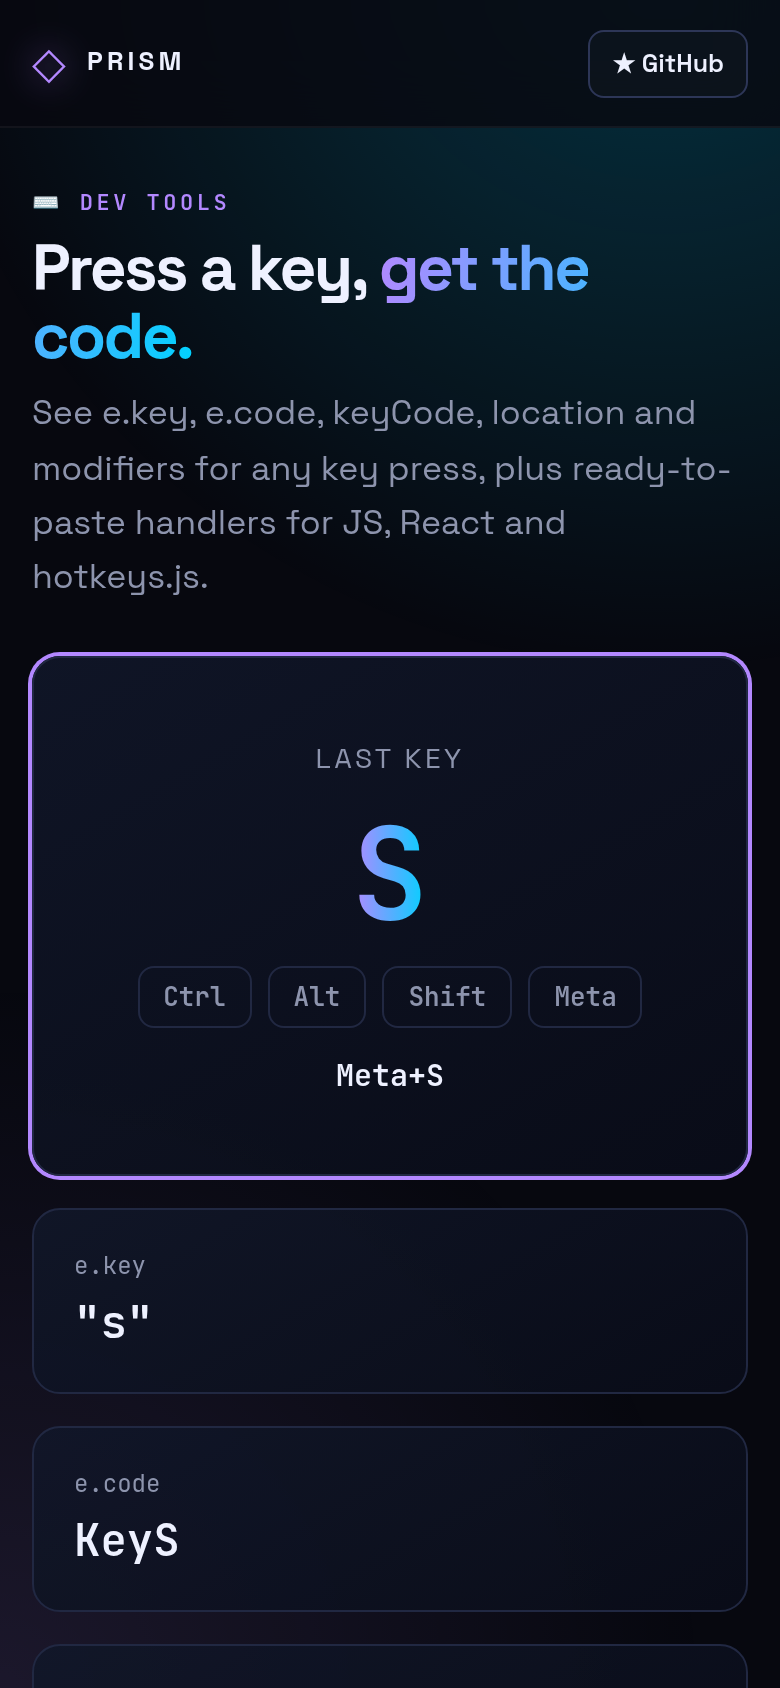
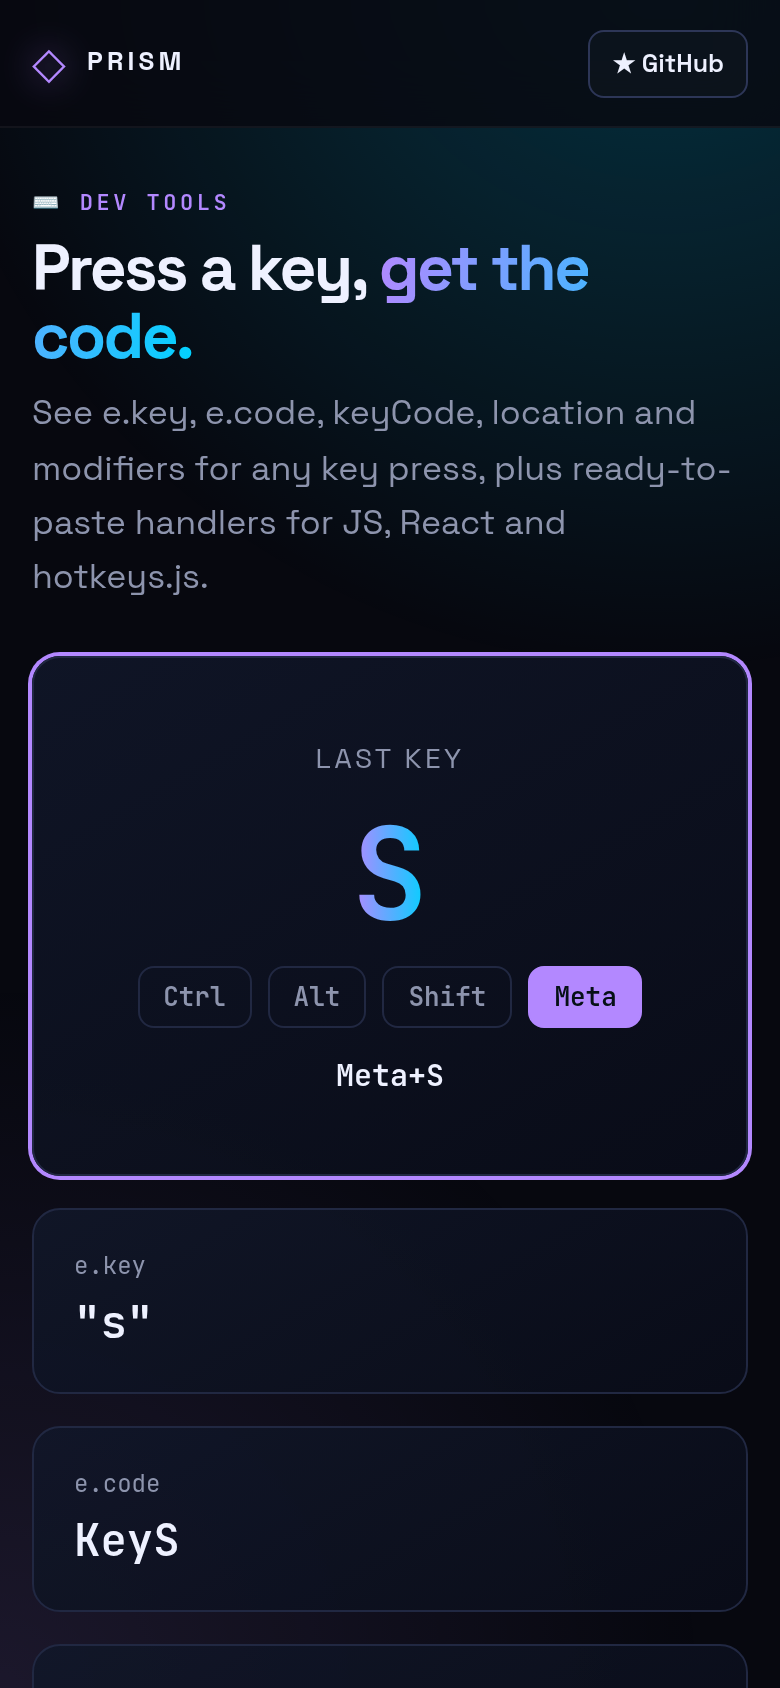
chore: update

Changed region(s): [[0.6769, 0.5545, 0.8308, 0.6161]]

diff --git a/js/app.js b/js/app.js
@@ -7,7 +7,7 @@
     const d = Core.describe(e);
     $("#hint").textContent = d.repeat ? "Holding…" : "Last key"; $("#big").textContent = d.label;
     $("#f-key").textContent = JSON.stringify(d.key); $("#f-code").textContent = d.code || "—"; $("#f-keyCode").textContent = d.keyCode; $("#f-location").textContent = d.location;
-    $$("#mods span").forEach((s) => s.classList.toggle("on", d.mods.includes(s.dataset.m)));
+    $$("#mods span").forEach((s) => s.classList.toggle("on", d.mods.includes(s.dataset.m.toLowerCase())));
     $("#combo").textContent = Core.combo(e, mac ? "mac" : "other");
     last = { key: e.key, code: e.code, ctrlKey: e.ctrlKey, altKey: e.altKey, shiftKey: e.shiftKey, metaKey: e.metaKey };
     $("#code").textContent = Core.snippets(last)[view];
@@ -22,7 +22,7 @@
     if (!(e.metaKey && ["r", "R"].includes(e.key)) && !(e.ctrlKey && ["r", "R"].includes(e.key))) e.preventDefault();
     show(e);
   });
-  document.addEventListener("keyup", (e) => $$("#mods span").forEach((s) => s.classList.toggle("on", Core.describe(e).mods.includes(s.dataset.m))));
+  document.addEventListener("keyup", (e) => $$("#mods span").forEach((s) => s.classList.toggle("on", Core.describe(e).mods.includes(s.dataset.m.toLowerCase()))));
   tabs($("#snip"), (v) => { view = v; if (last) $("#code").textContent = Core.snippets(last)[view]; });
   $("#copy").onclick = () => copy($("#code").textContent);
   $("#clear").onclick = () => { hist.length = 0; renderHist(); };
